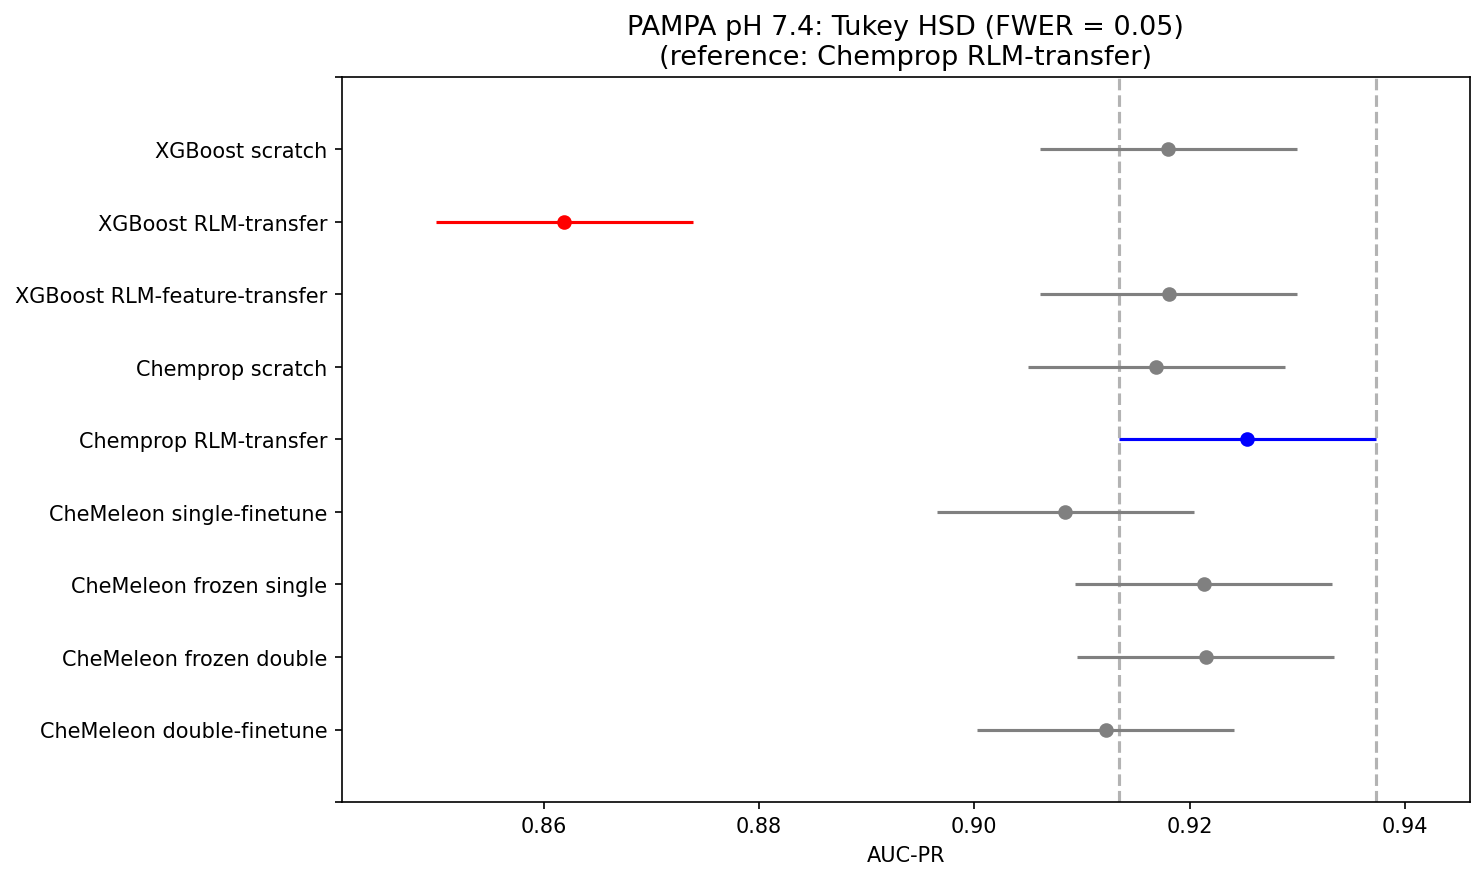
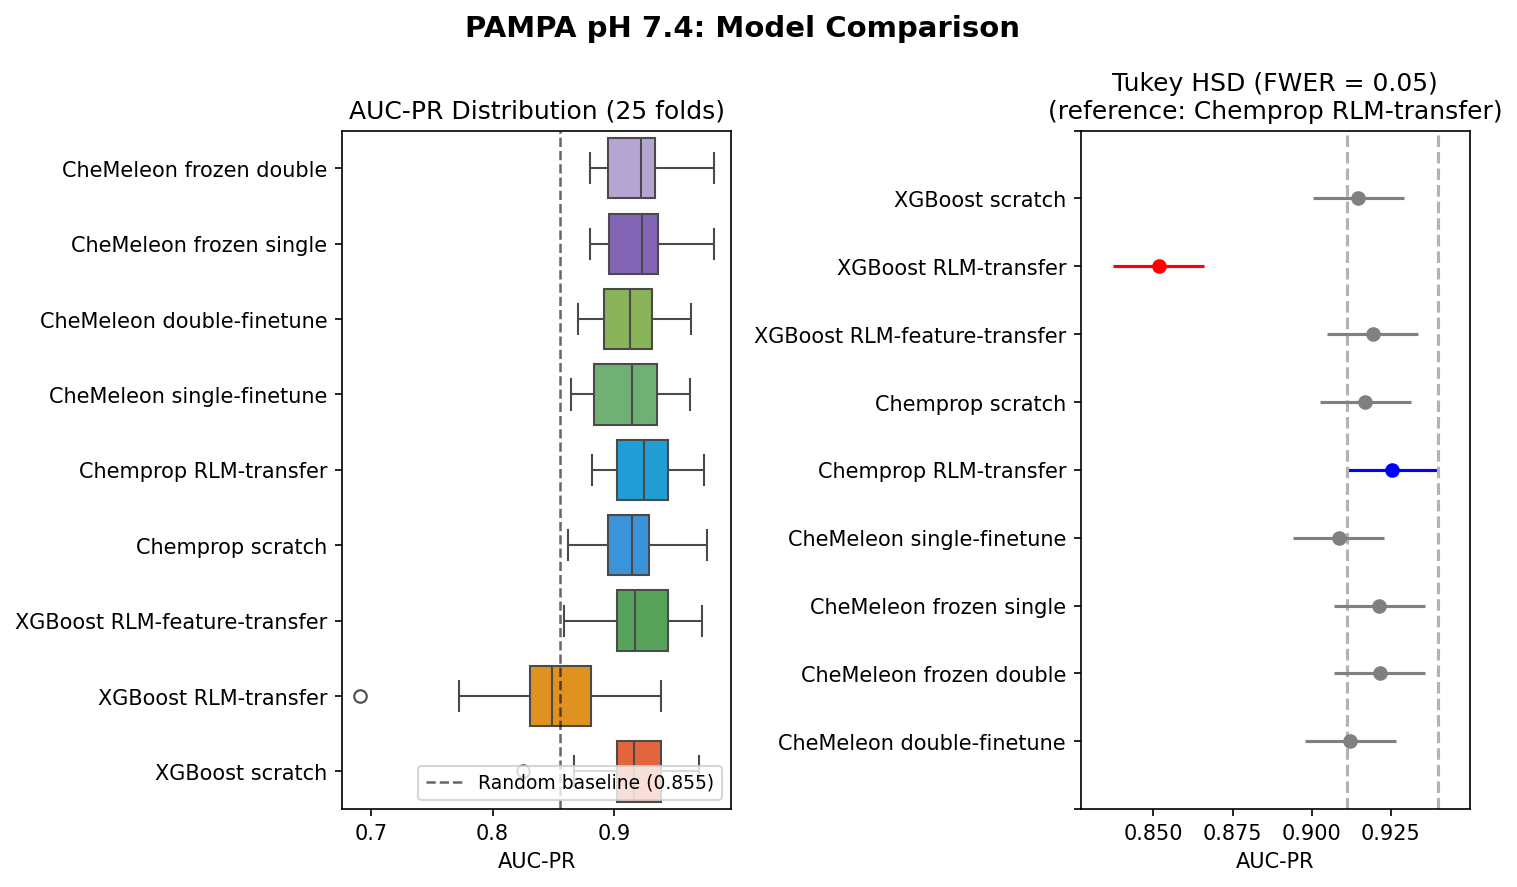
Combine HLM/PAMPA boxplots and Tukey HSD into single figures
The big 9-model RLM->HLM and RLM->PAMPA comparisons previously rendered
as separate boxplot and Tukey HSD images. The boxplot side had no
significance highlighting, which made it hard to read the story at a
glance. Notebook 06 now produces a side-by-side figure (horizontal
boxplot + Tukey HSD with best model highlighted) per endpoint, written
to both legacy filenames so existing README references continue to
resolve. Random baseline preserved on the boxplot panel.

Also re-ran notebook 03 to regenerate xgb_results.parquet with the
RLM-feature-transfer rows that had gone missing from the saved data,
and refreshed the XGBoost-only figures it produces.

diff --git a/notebooks/06-analysis.py b/notebooks/06-analysis.py
@@ -84,8 +84,38 @@ def _(all_df, mo, pl):
 
 
 @app.cell
-def _(FIGURES_DIR, all_df, logger, mo, pairwise_tukeyhsd, pl, plt):
-    # --- Separate Tukey HSD plots for HLM and PAMPA (AUC-PR) ---
+def _(FIGURES_DIR, all_df, logger, mo, pairwise_tukeyhsd, pl, plt, sns):
+    # --- Combined boxplot + Tukey HSD per endpoint (HLM, PAMPA) ---
+    # Replaces the previous separate boxplots-{slug}-auc-pr.png and
+    # tukey-hsd-{slug}-auc-pr.png files with a single side-by-side figure
+    # that pairs the AUC-PR distributions with the statistical significance
+    # test relative to the best model. Random baseline preserved on the
+    # boxplot side. Saved to BOTH legacy filenames so README references stay
+    # valid.
+
+    _model_order_combined = [
+        "XGBoost scratch",
+        "XGBoost RLM-transfer",
+        "XGBoost RLM-feature-transfer",
+        "Chemprop scratch",
+        "Chemprop RLM-transfer",
+        "CheMeleon single-finetune",
+        "CheMeleon double-finetune",
+        "CheMeleon frozen single",
+        "CheMeleon frozen double",
+    ]
+    _palette_combined = {
+        "XGBoost scratch": "#FF5722",
+        "XGBoost RLM-transfer": "#FF9800",
+        "XGBoost RLM-feature-transfer": "#4CAF50",
+        "Chemprop scratch": "#2196F3",
+        "Chemprop RLM-transfer": "#03A9F4",
+        "CheMeleon single-finetune": "#66BB6A",
+        "CheMeleon double-finetune": "#8BC34A",
+        "CheMeleon frozen single": "#7E57C2",
+        "CheMeleon frozen double": "#B39DDB",
+    }
+    _baselines_combined = {"HLM Stability": 0.602, "PAMPA pH 7.4": 0.855}
 
     for _target in ["HLM Stability", "PAMPA pH 7.4"]:
         _subset = all_df.filter(pl.col("target") == _target)
@@ -93,7 +123,7 @@ def _(FIGURES_DIR, all_df, logger, mo, pairwise_tukeyhsd, pl, plt):
         _groups = _subset.get_column("model").to_list()
         _tukey = pairwise_tukeyhsd(_values, _groups, alpha=0.05)
 
-        # Find best model
+        # Find best model (highest mean AUC-PR) -> reference for Tukey HSD.
         _means = (
             _subset.group_by("model")
             .agg(pl.col("avg_precision").mean())
@@ -101,24 +131,73 @@ def _(FIGURES_DIR, all_df, logger, mo, pairwise_tukeyhsd, pl, plt):
         )
         _best_model = _means.get_column("model")[0]
 
-        _fig, _ax = plt.subplots(figsize=(10, 7))
-        _tukey.plot_simultaneous(comparison_name=_best_model, ax=_ax, xlabel="AUC-PR")
-        _ax.set_title(
-            f"{_target}: Tukey HSD (FWER = 0.05)\n(reference: {_best_model})",
-            fontsize=13,
+        # Combined figure: horizontal boxplot (left) + Tukey HSD (right).
+        # Horizontal orientation aligns model names with the Tukey HSD plot
+        # and avoids cramped 45-degree x-axis labels.
+        _fig, (_ax_box, _ax_tukey) = plt.subplots(
+            1, 2, figsize=(16, 7), sharey=False
+        )
+
+        # Boxplot panel (horizontal: model on Y, AUC-PR on X). Reverse the
+        # order so XGBoost scratch sits on top, matching the natural reading
+        # order of the model_order list.
+        _df_pd = _subset.to_pandas()
+        sns.boxplot(
+            data=_df_pd,
+            y="model",
+            x="avg_precision",
+            hue="model",
+            ax=_ax_box,
+            order=list(reversed(_model_order_combined)),
+            palette=_palette_combined,
+            legend=False,
+        )
+        _ax_box.axvline(
+            _baselines_combined[_target],
+            color="black",
+            linestyle="--",
+            linewidth=1.2,
+            alpha=0.6,
+            label=f"Random baseline ({_baselines_combined[_target]:.3f})",
+        )
+        _ax_box.legend(fontsize=9, loc="lower right")
+        _ax_box.set_title("AUC-PR Distribution (25 folds)")
+        _ax_box.set_xlabel("AUC-PR")
+        _ax_box.set_ylabel("")
+
+        # Tukey HSD panel.
+        _tukey.plot_simultaneous(
+            comparison_name=_best_model, ax=_ax_tukey, xlabel="AUC-PR"
+        )
+        _ax_tukey.set_title(
+            f"Tukey HSD (FWER = 0.05)\n(reference: {_best_model})"
+        )
+
+        _fig.suptitle(
+            f"{_target}: Model Comparison",
+            fontsize=14,
+            fontweight="bold",
         )
         plt.tight_layout()
 
+        # Save under both legacy filenames so existing README references
+        # continue to resolve.
         _slug = "hlm" if "HLM" in _target else "pampa"
-        _path = FIGURES_DIR / f"tukey-hsd-{_slug}-auc-pr.png"
-        _fig.savefig(_path, dpi=150, bbox_inches="tight", facecolor="white")
-        logger.info(f"Saved {_path}")
+        for _name in (
+            f"tukey-hsd-{_slug}-auc-pr.png",
+            f"boxplots-{_slug}-auc-pr.png",
+        ):
+            _path = FIGURES_DIR / _name
+            _fig.savefig(_path, dpi=150, bbox_inches="tight", facecolor="white")
+            logger.info(f"Saved {_path}")
         plt.close(_fig)
 
     mo.md(
-        "Saved separate Tukey HSD plots (AUC-PR) for HLM and PAMPA to "
-        "`docs/figures/tukey-hsd-hlm-auc-pr.png` and "
-        "`docs/figures/tukey-hsd-pampa-auc-pr.png`."
+        "Saved combined boxplot + Tukey HSD plots (AUC-PR) for HLM and PAMPA. "
+        "Each endpoint's figure is written to both "
+        "`docs/figures/tukey-hsd-{slug}-auc-pr.png` and "
+        "`docs/figures/boxplots-{slug}-auc-pr.png` so the existing README "
+        "image references continue to work."
     )
     return
 
@@ -189,39 +268,9 @@ def _(FIGURES_DIR, all_df, logger, mo, pl, plt, sns):
     )
     logger.info(f"Saved {FIGURES_DIR / 'all-models-boxplots.png'}")
 
-    # --- Separate per-endpoint boxplots ---
-    for _target in ["HLM Stability", "PAMPA pH 7.4"]:
-        _slug = "hlm" if "HLM" in _target else "pampa"
-        _fig_single, _ax_single = plt.subplots(figsize=(12, 6))
-        _subset = all_df.filter(pl.col("target") == _target).to_pandas()
-        sns.boxplot(
-            data=_subset,
-            x="model",
-            y="avg_precision",
-            hue="model",
-            ax=_ax_single,
-            order=_model_order,
-            palette=_palette,
-            legend=False,
-        )
-        _ax_single.axhline(
-            _baselines[_target],
-            color="black",
-            linestyle="--",
-            linewidth=1.2,
-            alpha=0.6,
-            label=f"Random baseline ({_baselines[_target]:.3f})",
-        )
-        _ax_single.legend(fontsize=9, loc="lower right")
-        _ax_single.set_title(f"{_target}: AUC-PR Distributions (25 folds)", fontsize=13)
-        _ax_single.set_xlabel("")
-        _ax_single.set_ylabel("AUC-PR")
-        _ax_single.tick_params(axis="x", rotation=45)
-        _fig_single.tight_layout()
-        _path = FIGURES_DIR / f"boxplots-{_slug}-auc-pr.png"
-        _fig_single.savefig(_path, dpi=150, bbox_inches="tight", facecolor="white")
-        logger.info(f"Saved {_path}")
-        plt.close(_fig_single)
+    # Per-endpoint boxplots are now produced by the combined boxplot+Tukey
+    # cell above (saved to boxplots-{slug}-auc-pr.png AND
+    # tukey-hsd-{slug}-auc-pr.png).
 
     mo.vstack(
         [
